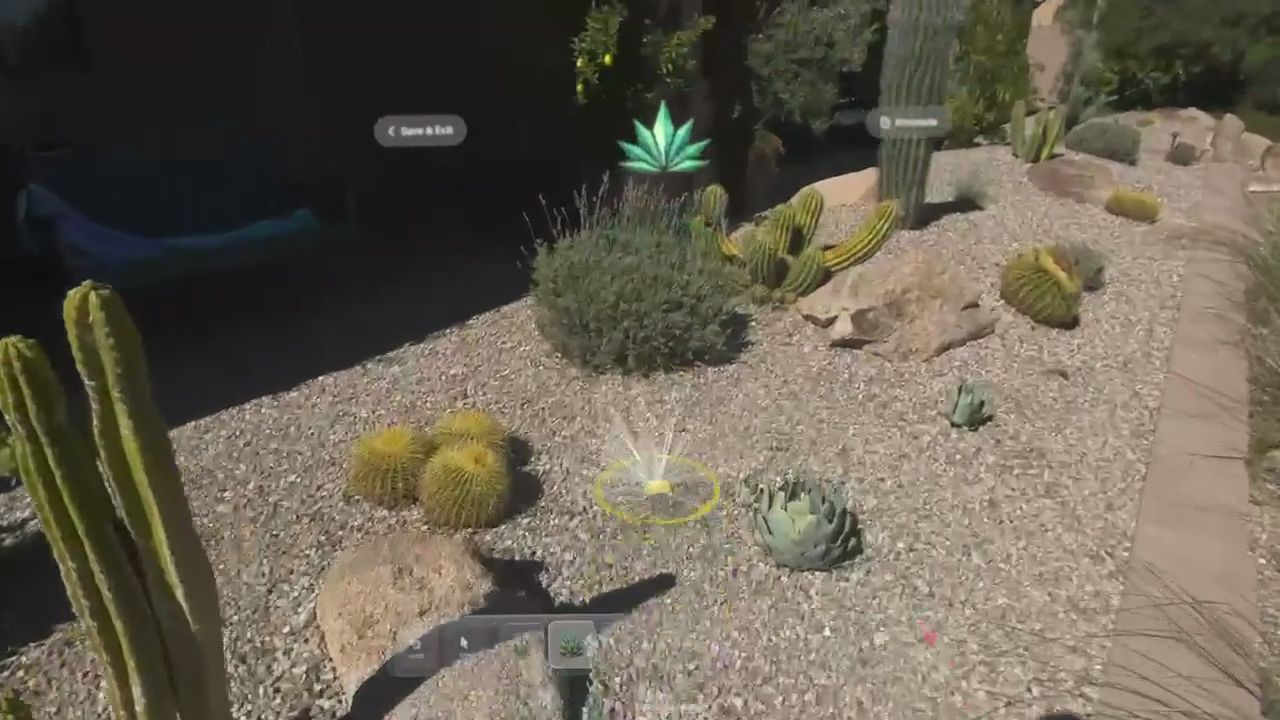
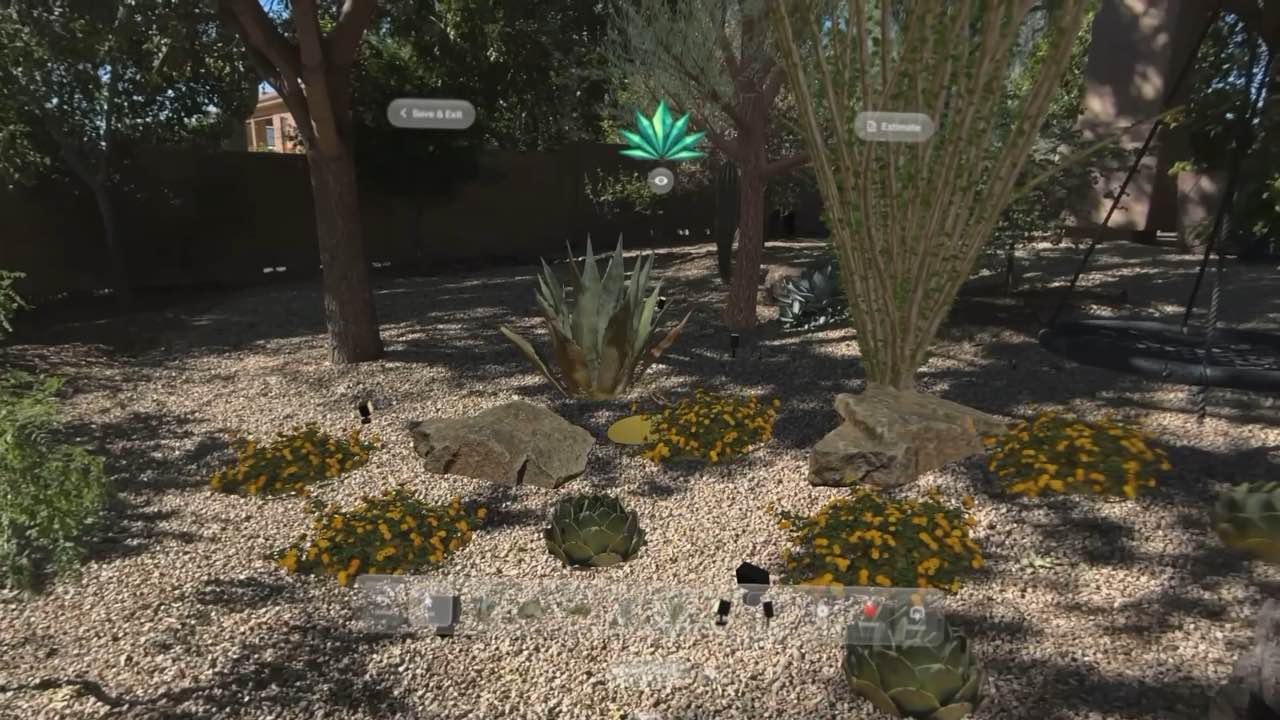
feat: the demo clip plays with its sound up
Swaps in the new Rio Verde recording (DemoRecording_v3.mp4) and gives it
back its audio: no `muted` attribute, so the player asks for audible
playback when the section scrolls into view, falls back to silent when the
browser's autoplay policy refuses, and raises the sound on the visitor's
first click, tap or keypress. The speaker button stays put - it just starts
as "Mute" instead of "Unmute", and a deliberate mute sticks rather than
undoing itself on the next scroll past.

New poster frame to match the new footage.

diff --git a/main.js b/main.js
@@ -294,7 +294,7 @@ if (reduceMotion) {
 // through — see styles.css. No IntersectionObserver needed.
 
 
-// ── Demo video: mute / restart / timecode / scrubber ──
+// ── Demo video: sound-on playback, mute / restart / timecode / scrubber ──
 const muteBtn = document.getElementById('demo-video-mute');
 const demoVideo = document.getElementById('demo-video');
 const restartBtn = document.getElementById('demo-video-restart');
@@ -310,19 +310,73 @@ const fmtMMSS = (s) => {
   return `${pad2(s / 60)}:${pad2(s % 60)}`;
 };
 
+// The clip runs with its sound up. Every browser gates audible playback
+// behind a user gesture, so the play path is: ask for sound, fall back to
+// silent if that is refused, and raise the sound on the visitor's first
+// click, tap or keypress. The button stays — it just starts as "Mute".
+let silencedByVisitor = false;   // true only once the visitor hits the button
+
+const syncMuteBtn = () => {
+  if (!muteBtn || !demoVideo) return;
+  muteBtn.classList.toggle('is-unmuted', !demoVideo.muted);
+  muteBtn.setAttribute('aria-label', demoVideo.muted ? 'Unmute video' : 'Mute video');
+};
+
+const dropGestureWatch = () => {
+  document.removeEventListener('pointerdown', liftMute, true);
+  document.removeEventListener('keydown', liftMute, true);
+  document.removeEventListener('touchend', liftMute, true);
+};
+
+function liftMute(e) {
+  // The mute button speaks for itself — don't pre-empt its own click, or a
+  // visitor reaching for "unmute" would land on "mute" instead.
+  if (e && e.target && e.target.closest && e.target.closest('#demo-video-mute')) return;
+  dropGestureWatch();
+  if (silencedByVisitor || !demoVideo) return;
+  demoVideo.muted = false;
+}
+
+const watchForGesture = () => {
+  // Capture phase: the sound comes up on the way down to whatever was clicked.
+  document.addEventListener('pointerdown', liftMute, true);
+  document.addEventListener('keydown', liftMute, true);
+  document.addEventListener('touchend', liftMute, true);
+};
+
+const playWithSound = () => {
+  if (!demoVideo) return;
+  if (!silencedByVisitor) demoVideo.muted = false;
+  const p = demoVideo.play();
+  if (p && typeof p.catch === 'function') {
+    p.catch(() => {
+      // Autoplay policy said no sound yet. Run it silent and wait for the
+      // first gesture anywhere on the page to turn the sound up.
+      demoVideo.muted = true;
+      watchForGesture();
+      const q = demoVideo.play();
+      if (q && typeof q.catch === 'function') q.catch(() => {});
+    });
+  }
+};
+
 if (muteBtn && demoVideo) {
   muteBtn.addEventListener('click', () => {
     demoVideo.muted = !demoVideo.muted;
-    muteBtn.classList.toggle('is-unmuted', !demoVideo.muted);
-    muteBtn.setAttribute('aria-label', demoVideo.muted ? 'Unmute video' : 'Mute video');
+    silencedByVisitor = demoVideo.muted;   // a deliberate silence stays silent
+    if (!demoVideo.muted) dropGestureWatch();
+    syncMuteBtn();
   });
+  // Keeps the icon honest however the mute state got there — button, gesture,
+  // or the autoplay fallback.
+  demoVideo.addEventListener('volumechange', syncMuteBtn);
+  syncMuteBtn();
 }
 
 if (restartBtn && demoVideo) {
   restartBtn.addEventListener('click', () => {
     demoVideo.currentTime = 0;
-    const p = demoVideo.play();
-    if (p && typeof p.catch === 'function') p.catch(() => {});
+    playWithSound();
   });
 }
 
@@ -336,8 +390,7 @@ if (demoVideo) {
   const videoObserver = new IntersectionObserver((entries) => {
     videoInView = entries[entries.length - 1].isIntersecting;
     if (videoInView) {
-      const p = demoVideo.play();
-      if (p && typeof p.catch === 'function') p.catch(() => {});
+      playWithSound();
     } else {
       demoVideo.pause();
     }

diff --git a/index.html b/index.html
@@ -415,10 +415,13 @@
     <div class="ia-stage reveal reveal-4">
       <div class="ia-window">
 <div class="ia-video-frame">
-          <!-- No autoplay/preload: the 34MB file starts downloading only when
-               main.js sees the section scroll into view and calls play(). -->
-          <video class="ia-video" id="demo-video" muted loop playsinline preload="none" poster="assets/img/demo-poster.jpg">
-            <source src="https://pub-cc7a1d5c152b4c65b070cb253d4e7fb8.r2.dev/DemoRecording_v2.mp4" type="video/mp4" />
+          <!-- No autoplay/preload: the 38MB file starts downloading only when
+               main.js sees the section scroll into view and calls play().
+               No `muted` here on purpose - the clip runs with its sound up,
+               so main.js asks for audible playback first and only drops to
+               silent if the browser refuses it. -->
+          <video class="ia-video" id="demo-video" loop playsinline preload="none" poster="assets/img/demo-poster.jpg">
+            <source src="https://pub-cc7a1d5c152b4c65b070cb253d4e7fb8.r2.dev/DemoRecording_v3.mp4" type="video/mp4" />
             Your browser doesn't support embedded video.
           </video>
         </div>
@@ -446,7 +449,7 @@
                 <path d="M3.51 15a9 9 0 1 0 2.13-9.36L1 10"/>
               </svg>
             </button>
-            <button class="action-ctl demo-video-mute" id="demo-video-mute" aria-label="Unmute video" type="button">
+            <button class="action-ctl demo-video-mute is-unmuted" id="demo-video-mute" aria-label="Mute video" type="button">
               <svg class="icon-muted" viewBox="0 0 24 24" fill="none" stroke="currentColor" stroke-width="2" stroke-linecap="round" stroke-linejoin="round" aria-hidden="true">
                 <polygon points="11 5 6 9 2 9 2 15 6 15 11 19 11 5"/>
                 <line x1="23" y1="9" x2="17" y2="15"/>
